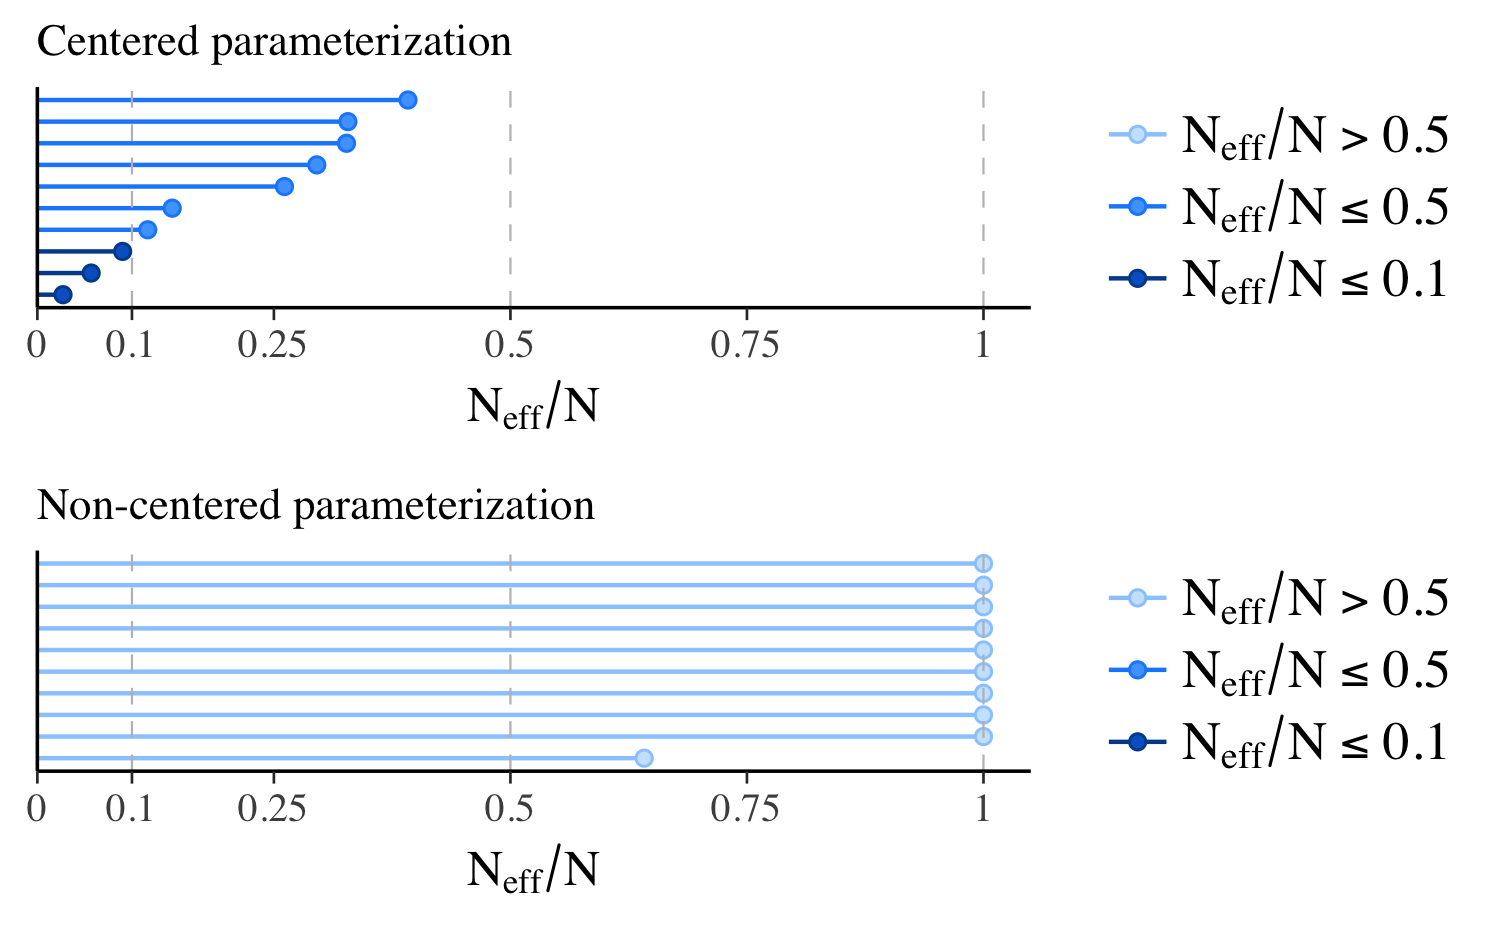
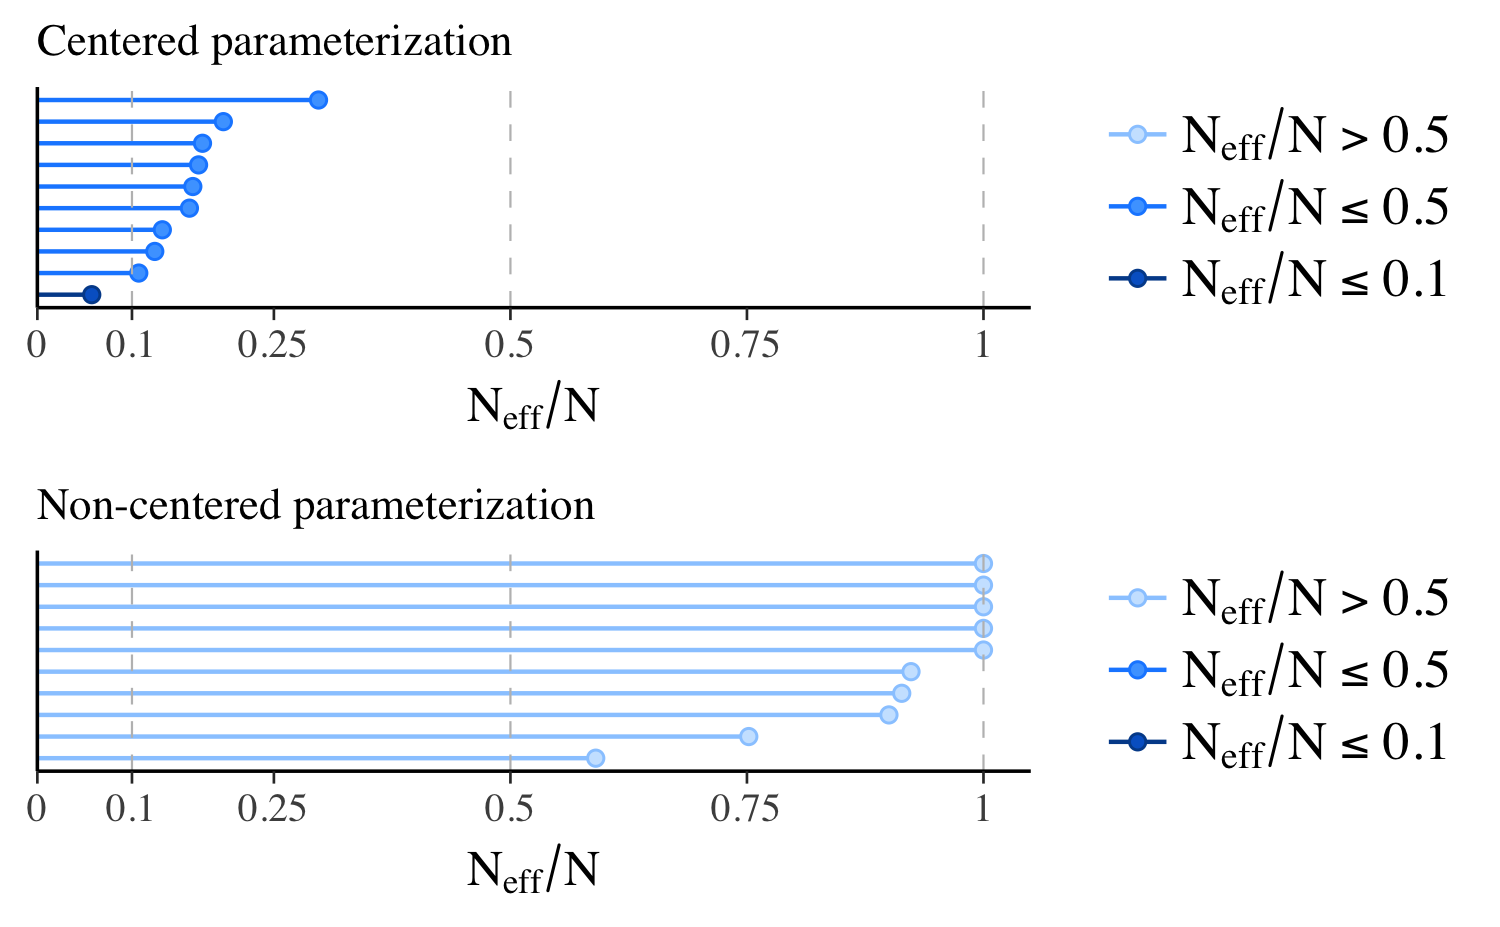
Update articles

Changed region(s): [[0.0307, 0.0906, 0.276, 0.3323], [0.4907, 0.6947, 0.6747, 0.8155], [0.3987, 0.8155, 0.4293, 0.8457]]

diff --git a/articles/visual-mcmc-diagnostics.html b/articles/visual-mcmc-diagnostics.html
@@ -191,16 +191,12 @@ model {
 schools_mod_ncp &lt;-<span class="st"> </span><span class="kw"><a href="http://www.rdocumentation.org/packages/rstan/topics/stan_model">stan_model</a></span>(<span class="st">"schools_mod_ncp.stan"</span>)</code></pre></div>
 <p>We then fit the model by calling Stan’s MCMC algorithm using the <code>sampling</code> function,</p>
 <div class="sourceCode"><pre class="sourceCode r"><code class="sourceCode r">fit_cp &lt;-<span class="st"> </span><span class="kw"><a href="http://www.rdocumentation.org/packages/rstan/topics/stanmodel-method-sampling">sampling</a></span>(schools_mod_cp, <span class="dt">data =</span> schools_dat)</code></pre></div>
-<pre><code>Warning: There were 192 divergent transitions after warmup. Increasing adapt_delta above 0.8 may help. See
+<pre><code>Warning: There were 124 divergent transitions after warmup. Increasing adapt_delta above 0.8 may help. See
 http://mc-stan.org/misc/warnings.html#divergent-transitions-after-warmup</code></pre>
-<pre><code>Warning: There were 3 chains where the estimated Bayesian Fraction of Missing Information was low. See
+<pre><code>Warning: There were 4 chains where the estimated Bayesian Fraction of Missing Information was low. See
 http://mc-stan.org/misc/warnings.html#bfmi-low</code></pre>
 <pre><code>Warning: Examine the pairs() plot to diagnose sampling problems</code></pre>
 <div class="sourceCode"><pre class="sourceCode r"><code class="sourceCode r">fit_ncp &lt;-<span class="st"> </span><span class="kw"><a href="http://www.rdocumentation.org/packages/rstan/topics/stanmodel-method-sampling">sampling</a></span>(schools_mod_ncp, <span class="dt">data =</span> schools_dat)</code></pre></div>
-<pre><code>Warning: There were 1 divergent transitions after warmup. Increasing adapt_delta above 0.8 may help. See
-http://mc-stan.org/misc/warnings.html#divergent-transitions-after-warmup
-
-Warning: Examine the pairs() plot to diagnose sampling problems</code></pre>
 <p>and extract a <code>iterations x chains x parameters</code> array of posterior draws with <code>as.array</code>,</p>
 <div class="sourceCode"><pre class="sourceCode r"><code class="sourceCode r"><span class="co"># Extract posterior draws for later use</span>
 posterior_cp &lt;-<span class="st"> </span><span class="kw">as.array</span>(fit_cp)
@@ -233,9 +229,9 @@ posterior_ncp &lt;-<span class="st"> </span><span class="kw">as.array</span>(fit
 <div class="sourceCode"><pre class="sourceCode r"><code class="sourceCode r">rhats &lt;-<span class="st"> </span><span class="kw"><a href="../reference/bayesplot-extractors.html">rhat</a></span>(fit_cp_100iter)
 <span class="kw">print</span>(rhats)</code></pre></div>
 <pre><code>       mu       tau  theta[1]  theta[2]  theta[3]  theta[4]  theta[5] 
-1.0006852 1.0345889 0.9934694 0.9971895 1.0180342 0.9991081 0.9935494 
+1.0127810 1.2345924 1.0874633 1.0261632 1.0118351 0.9836502 1.0087385 
  theta[6]  theta[7]  theta[8]      lp__ 
-1.0097161 1.0001681 1.0155155 1.1607088 </code></pre>
+0.9995647 1.0556654 1.0101240 1.3770368 </code></pre>
 <div id="mcmc_rhat-mcmc_rhat_hist" class="section level4">
 <h4 class="hasAnchor">
 <a href="#mcmc_rhat-mcmc_rhat_hist" class="anchor"></a>mcmc_rhat, mcmc_rhat_hist</h4>
@@ -264,9 +260,9 @@ posterior_ncp &lt;-<span class="st"> </span><span class="kw">as.array</span>(fit
 <div class="sourceCode"><pre class="sourceCode r"><code class="sourceCode r">ratios_cp &lt;-<span class="st"> </span><span class="kw"><a href="../reference/bayesplot-extractors.html">neff_ratio</a></span>(fit_cp)
 <span class="kw">print</span>(ratios_cp)</code></pre></div>
 <pre><code>        mu        tau   theta[1]   theta[2]   theta[3]   theta[4] 
-0.05685829 0.02711666 0.09010869 0.26118395 0.32821164 0.32674083 
+0.10718264 0.05748472 0.13208913 0.16071886 0.29716825 0.17037674 
   theta[5]   theta[6]   theta[7]   theta[8]       lp__ 
-0.29532649 0.14253381 0.11663278 0.39171400 0.01402384 </code></pre>
+0.16430769 0.17453811 0.12409025 0.19658575 0.03814528 </code></pre>
 <div class="sourceCode"><pre class="sourceCode r"><code class="sourceCode r"><span class="kw"><a href="../reference/MCMC-diagnostics.html">mcmc_neff</a></span>(ratios_cp, <span class="dt">size =</span> <span class="dv">2</span>)</code></pre></div>
 <p><img src="visual-mcmc-diagnostics_files/figure-html/print-neff-ratios-1.png" width="60%" style="display: block; margin: auto;"></p>
 <p>In the plot, the points representing the values of <span class="math inline">\(n_{eff}/N\)</span> are colored based on whether they are less than <span class="math inline">\(0.1\)</span>, between <span class="math inline">\(0.1\)</span> and <span class="math inline">\(0.5\)</span>, or greater than <span class="math inline">\(0.5\)</span>. These particular values are arbitrary in that they have no particular theoretical meaning, but a useful heuristic is to worry about any <span class="math inline">\(n_{eff}/N\)</span> less than <span class="math inline">\(0.1\)</span>.</p>
@@ -333,21 +329,21 @@ neff_ncp &lt;-<span class="st"> </span><span class="kw"><a href="../reference/ba
 <div class="sourceCode"><pre class="sourceCode r"><code class="sourceCode r">lp_cp &lt;-<span class="st"> </span><span class="kw"><a href="../reference/bayesplot-extractors.html">log_posterior</a></span>(fit_cp)
 <span class="kw">head</span>(lp_cp)</code></pre></div>
 <pre><code>  Iteration      Value Chain
-1         1 -13.828789     1
-2         2 -11.296389     1
-3         3 -11.296389     1
-4         4 -11.296389     1
-5         5 -11.296389     1
-6         6  -9.451192     1</code></pre>
+1         1 -13.674875     1
+2         2 -13.674875     1
+3         3  -7.960195     1
+4         4  -7.960195     1
+5         5  -6.147972     1
+6         6  -4.965536     1</code></pre>
 <div class="sourceCode"><pre class="sourceCode r"><code class="sourceCode r">np_cp &lt;-<span class="st"> </span><span class="kw"><a href="../reference/bayesplot-extractors.html">nuts_params</a></span>(fit_cp)
 <span class="kw">head</span>(np_cp)</code></pre></div>
-<pre><code>  Iteration     Parameter        Value Chain
-1         1 accept_stat__ 0.8921665620     1
-2         2 accept_stat__ 0.8864429301     1
-3         3 accept_stat__ 0.0449387471     1
-4         4 accept_stat__ 0.0029498834     1
-5         5 accept_stat__ 0.0001193732     1
-6         6 accept_stat__ 0.6204139647     1</code></pre>
+<pre><code>  Iteration     Parameter       Value Chain
+1         1 accept_stat__ 0.798151317     1
+2         2 accept_stat__ 0.008786486     1
+3         3 accept_stat__ 0.637806136     1
+4         4 accept_stat__ 0.334461358     1
+5         5 accept_stat__ 0.986092118     1
+6         6 accept_stat__ 0.522237838     1</code></pre>
 <div class="sourceCode"><pre class="sourceCode r"><code class="sourceCode r"><span class="co"># for the second model</span>
 lp_ncp &lt;-<span class="st"> </span><span class="kw"><a href="../reference/bayesplot-extractors.html">log_posterior</a></span>(fit_ncp)
 np_ncp &lt;-<span class="st"> </span><span class="kw"><a href="../reference/bayesplot-extractors.html">nuts_params</a></span>(fit_ncp)</code></pre></div>
@@ -382,9 +378,9 @@ np_ncp &lt;-<span class="st"> </span><span class="kw"><a href="../reference/baye
 <p>If there are only a few divergences we can often get rid of them by increasing the target acceptance rate (<code>adapt_delta</code>), which has the effect of lowering the step size used by the sampler and allowing the Markov chains to explore more complicated curvature in the target distribution.</p>
 <div class="sourceCode"><pre class="sourceCode r"><code class="sourceCode r">fit_cp_2 &lt;-<span class="st"> </span><span class="kw"><a href="http://www.rdocumentation.org/packages/rstan/topics/stanmodel-method-sampling">sampling</a></span>(schools_mod_cp, <span class="dt">data =</span> schools_dat,
                      <span class="dt">control =</span> <span class="kw">list</span>(<span class="dt">adapt_delta =</span> <span class="fl">0.99</span>))</code></pre></div>
-<pre><code>Warning: There were 11 divergent transitions after warmup. Increasing adapt_delta above 0.99 may help. See
+<pre><code>Warning: There were 79 divergent transitions after warmup. Increasing adapt_delta above 0.99 may help. See
 http://mc-stan.org/misc/warnings.html#divergent-transitions-after-warmup</code></pre>
-<pre><code>Warning: There were 4 chains where the estimated Bayesian Fraction of Missing Information was low. See
+<pre><code>Warning: There were 3 chains where the estimated Bayesian Fraction of Missing Information was low. See
 http://mc-stan.org/misc/warnings.html#bfmi-low</code></pre>
 <pre><code>Warning: Examine the pairs() plot to diagnose sampling problems</code></pre>
 <div class="sourceCode"><pre class="sourceCode r"><code class="sourceCode r">fit_ncp_2 &lt;-<span class="st"> </span><span class="kw"><a href="http://www.rdocumentation.org/packages/rstan/topics/stanmodel-method-sampling">sampling</a></span>(schools_mod_ncp, <span class="dt">data =</span> schools_dat,
